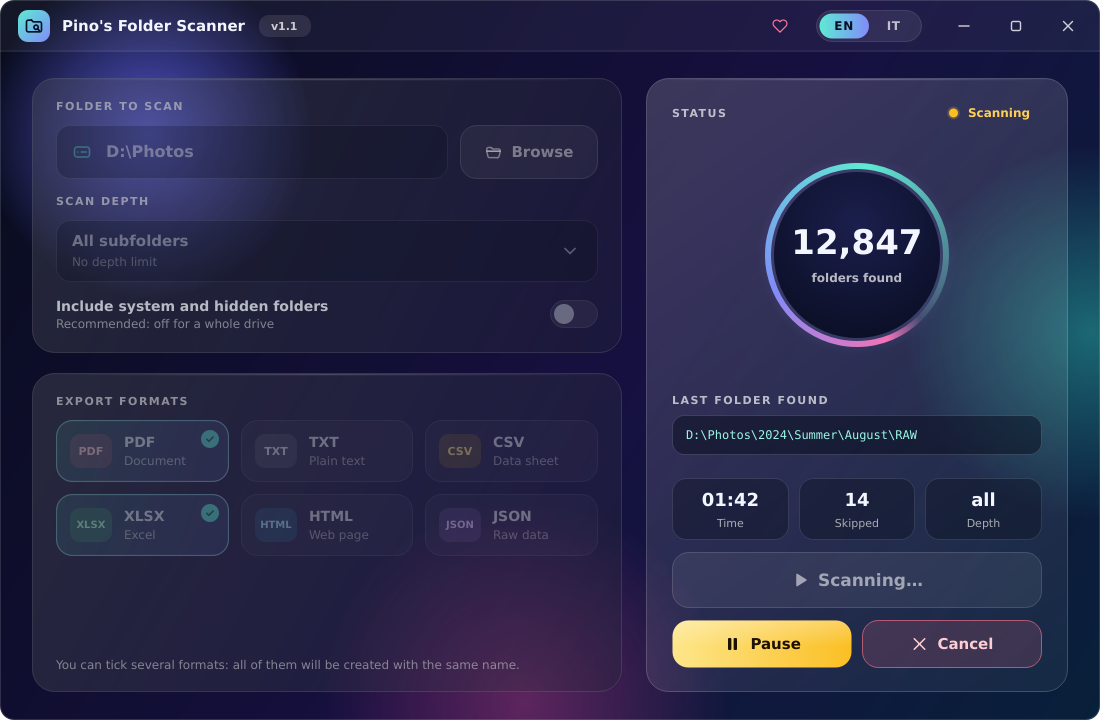
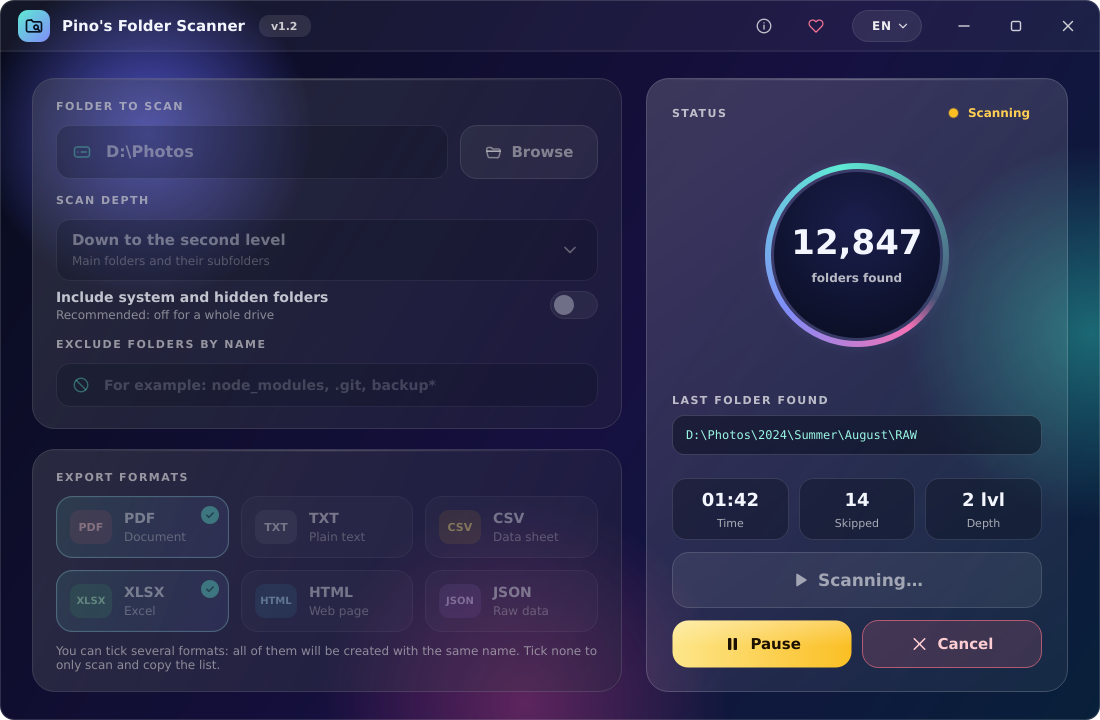
Mark 1.2 as released and update the README and the screenshots (#18)

diff --git a/README.md b/README.md
@@ -11,7 +11,7 @@
 
 A small Windows desktop app that scans a drive or a folder and exports the list of its subfolders to **PDF, TXT, CSV, XLSX, HTML or JSON**.
 
-Pick a folder, choose how deep to look, tick the formats you want, press **Start scan**. That's it.
+Pick a folder, choose how deep to look, tick the formats you want (or none, to only copy the list), press **Start scan**. That's it.
 
 [![Support me on Ko-fi](https://ko-fi.com/img/githubbutton_sm.svg)](https://ko-fi.com/thenormal)
 
@@ -24,13 +24,16 @@ Pick a folder, choose how deep to look, tick the formats you want, press **Start
 - **Any drive or folder**: use *Browse* or paste a path (`D:\`, `D:\Photos`, a network path…).
 - **Descriptive depth**: selected folder only, first level only, down to the second or third level, or all subfolders.
 - **System and hidden folders** are left out by default (`$Recycle.Bin`, `System Volume Information`, `Windows`, `Program Files`… in the root of a drive, plus anything with the hidden/system attribute). One switch includes them.
-- **Six export formats**, tick as many as you like: they are all created with the same file name. You choose where to save every time.
+- **Six export formats**, tick as many as you like: they are all created with the same file name. You choose where to save every time. Tick none to only scan: no "Save as" window and no file.
+- **Exclude folders by name** (for example `node_modules, .git, backup*`): upper and lower case do not matter, `*` and `?` work as wildcards. A folder left out is not opened, so the scan is faster, and nothing inside it is listed.
 - **Pause, Resume and Cancel** while scanning, with a live counter and the last folder found. Cancelling creates no files.
 - **Folders that cannot be read** (no permission, removed while scanning…) are skipped without stopping the scan, and listed in a "not scanned" section of the report.
 - **Symbolic links and junctions are not followed**, so there are no endless loops.
 - Long paths (over 260 characters) and Unicode names (accents, Cyrillic, Japanese…) are handled.
 - **Drag and drop**: drag a folder or a drive onto the window to choose it (a file stands for the folder that contains it).
-- **English and Italian** interface and reports; the language switch is in the title bar, and the language of Windows is used on the first start. More languages are planned.
+- **Copy list**: when a scan is complete, one button copies the full paths, one per line, to the clipboard.
+- **Eight languages**: English, Italian, German, Spanish, French, Dutch, Portuguese and Chinese (Simplified), chosen from a drop-down menu in the title bar. The interface and the exported files follow it, and the language of Windows is used on the first start. The translations other than English and Italian have not been checked by native speakers yet: corrections are welcome (see Contributing).
+- **Diagnostic report** to help with problem reports (see below). Nothing is ever sent by the program.
 - Remembers your last settings.
 - Glass-style interface with animations.
 
@@ -49,10 +52,11 @@ Developed for **Windows 11**; Windows 10 is expected to work too.
 1. Press **Browse** (or type a path, or drag a folder onto the window) and choose a drive or folder.
 2. Choose the **scan depth** from the menu.
 3. Leave *Include system and hidden folders* off (recommended for a whole drive), or turn it on.
-4. Tick one or more **export formats**.
-5. Press **Start scan** and choose where to save. If a file already exists you are asked before it is replaced.
-6. Use **Pause / Resume** and **Cancel** while it runs.
-7. When it finishes, a message tells you how many folders were found and which files were created. Nothing is opened automatically.
+4. Optional: write the names of folders to leave out in **Exclude folders by name**, separated by commas (for example `node_modules, .git`).
+5. Tick one or more **export formats**, or none to only scan.
+6. Press **Start scan** and choose where to save (with no format ticked there is nothing to save). If a file already exists you are asked before it is replaced.
+7. Use **Pause / Resume** and **Cancel** while it runs.
+8. When it finishes, a message tells you how many folders were found and which files were created. Nothing is opened automatically. The **Copy list** button copies the list to the clipboard.
 
 ### What the output looks like
 
@@ -64,7 +68,21 @@ Developed for **Windows 11**; Windows 10 is expected to work too.
 ### Where things are stored
 
 - Settings: Windows registry, `HKEY_CURRENT_USER\Software\thenormal\PinosFolderScanner`.
-- If the program meets an unexpected error it writes the details to `%LOCALAPPDATA%\PinosFolderScanner\errors.log`. Please attach it if you open an issue.
+- If the program meets an unexpected error it writes the details to `%LOCALAPPDATA%\PinosFolderScanner\errors.log`.
+
+### Diagnostic report and privacy
+
+If something does not work, press the **i** button next to the heart and choose **Save diagnostic report**: it saves a text file wherever you choose, and you can read it before you send it to anyone. **Report a problem** opens the GitHub page for a new issue with the program version and Windows already filled in. At the end of a scan the program offers the report by itself, but only when something really went wrong (a file could not be created, the scan failed or folders were skipped because of an unexpected error). "Access denied" and "not found" are normal and do not trigger it.
+
+The report is always in English and contains:
+
+- the program version, Windows, Python and Qt versions, the interface language and the screen scale;
+- the options and results of the last scan: folders found, folders skipped (by reason), scan time, time in pause, folders per second, and the five slowest folders to read;
+- the kind of path scanned (local, network or removable drive), how many folders were left out by name and how many were copied to the clipboard;
+- time and size of each exported file, and the fonts used in the PDF;
+- the last lines of `errors.log`.
+
+**Privacy:** every folder name in the report is replaced by a code (for example `D:\Photos` becomes `<drive>\f_3a9c1e`) that changes in every report and cannot be turned back into the name. The names you type in the exclusion field are never written in it. There is no user name and no computer name, and there is no option to show the real names. The program never sends the report anywhere: you decide whether to share it. The tests check that no real name appears in it.
 
 ## Build from source
 
@@ -88,9 +106,10 @@ python -m venv .venv
 | `app/scanner.py` | Scan engine: depth, filters, links, pause/cancel (no Qt needed) |
 | `app/worker.py` | Runs the scan and the export in a background thread |
 | `app/exporters.py` | One function per format (PDF, TXT, CSV, XLSX, HTML, JSON) |
-| `app/i18n.py` | All the texts of the program (English and Italian; a new language is one more block) |
+| `app/i18n.py` | All the texts of the program in the eight languages (a new language is one more block) |
+| `app/diagnostics.py` | The diagnostic report and the masking of folder names (no Qt needed) |
 | `app/settings.py` | Settings remembered between runs |
-| `app/links.py` | The web link of the Ko-fi button (opened only when you click it) |
+| `app/links.py` | The web links of the program (Ko-fi, GitHub, new issue), opened only when you click them |
 | `app/window.py` | Main window, ties everything together |
 | `app/widgets.py` | The look: colours, glass cards, buttons, animated ring, icons |
 | `app/dialogs.py` | Message boxes in the same style |
@@ -104,25 +123,26 @@ python -m venv .venv
 Some easy changes:
 
 - **Add an export format**: write one function in `app/exporters.py`, register it in `EXPORTERS` and `FORMATS`, and add its label to `app/i18n.py`.
-- **Add a language**: copy the `"en"` block in `app/i18n.py`, translate it and add the code to `LANGUAGES`; the language switch appears in the title bar by itself.
+- **Add a language**: copy the `"en"` block in `app/i18n.py`, translate it, add the code to `LANGUAGES` and its own name to `LANGUAGE_NAMES`, and add it to `UNVERIFIED_LANGUAGES` until a native speaker has checked it; the language menu in the title bar lists it by itself. `tests/test_core.py` checks that every text and every `{placeholder}` is there.
 - **Change the colours**: the constants at the top of `app/widgets.py` and the background in `app/window.py`.
 
 ### Tests
 
 ```bat
 python tests\test_core.py
+python tests\test_diagnostics.py
 python tests\test_gui.py
 ```
 
-The first one tests scanning (depth, filters, links, permissions, pause/cancel) and all the exports; the second drives the window without showing it (start, pause, cancel, language switch, drag and drop…). They need no screen and write nothing outside a temporary folder.
+The first one tests the texts of all the languages, scanning (depth, filters, exclusion by name, links, permissions, pause/cancel) and all the exports; the second one tests the diagnostic report, above all that no real folder name can appear in it; the third drives the window without showing it (start, pause, cancel, language menu, drag and drop, info window, Copy list…). They need no screen and write nothing outside a temporary folder. For one check of the Chinese PDF the first test also uses `pypdf`, a tool used only by the tests (`pip install -r requirements-dev.txt`); without it that check is skipped.
 
 ## Roadmap
 
-See [ROADMAP.md](ROADMAP.md): a diagnostic report to help with problem reports, more languages (Spanish, French, German, Portuguese, Dutch, Chinese), name filters and copying the list to the clipboard are planned. The changes of each version are in [CHANGELOG.md](CHANGELOG.md).
+See [ROADMAP.md](ROADMAP.md) for the ideas that may come next (a light theme, code signing of the `.exe`, more languages on request). The changes of each version are in [CHANGELOG.md](CHANGELOG.md).
 
 ## Contributing
 
-Bug reports and ideas are welcome: please open an [issue](../../issues). For a bug, say what you did, what you expected, and attach `errors.log` if there is one.
+Bug reports, ideas and translation fixes are welcome: please open an [issue](../../issues) and pick the matching form. For a bug, the easiest way is the **Report a problem** button of the program, with the diagnostic report attached. If a text in your language is wrong or sounds unnatural, use the **Fix a translation** form.
 
 ## Support
 

diff --git a/ROADMAP.md b/ROADMAP.md
@@ -14,28 +14,11 @@ First public release: scan a drive or folder and export its subfolder list to PD
 - Drag a folder onto the window to choose it.
 - Automatic build on GitHub Actions: the `.exe` attached to each release is built from the public source.
 
-## 1.2 – Diagnostics, languages, filters and clipboard (ready, not yet released)
+## 1.2 – Released: diagnostics, languages, filters and clipboard
 
-One release with all of this. The work was done in small steps, each one tried on Windows before it was merged. Everything is in and the version number is 1.2; the release is published after a last test of the executable in every language.
-
-### Diagnostics and feedback
-
-- **Diagnostic report** of the last scan, saved as a text file wherever you choose with *Save as*. It contains the version, Windows, Python and Qt versions, the language and the screen scale; the scan options and results (folders found, folders skipped by reason, duration, time in pause, folders per second); the kind of path (local, network or removable); time and size of each export, and the fonts used in the PDF; the five slowest folders to read; the last lines of `errors.log`. *Progress: the report, the info window with its buttons, the offer at the end of a scan and the issue forms (bug, idea) are done. The README note comes after the release.*
-- **Privacy:** every folder name in the report is replaced by a code (for example `D:\Photos` becomes `<drive>\f_3a9c1e`), always, with no option to show the real names. No user name, no computer name. Nothing is ever sent by the program: you decide what to attach to a report. Tests check that no real name appears in the report.
-- **Info window** (an "i" button next to the heart): version, links (GitHub, issues, Ko-fi, README), *Save diagnostic report* and *Report a problem* (opens the GitHub new-issue page already filled with the version and Windows, which you can read before sending).
-- **Offer to save the report** in the window shown at the end of a scan, only when something really went wrong: a format could not be created, the scan failed because of an unexpected error, or folders were skipped because of an unexpected system error. Folders skipped for "access denied" or "not found" are normal and do not trigger it.
-- Issue forms in the repository (bug report, idea) and a README note on what the report contains.
-
-### More languages
-
-- Spanish, French, German, Portuguese, Dutch and Chinese. *Progress: all six are in (Chinese is Simplified Chinese; Portuguese is neutral, close to Brazilian). Numbers use the separator of each language.*
-- The language switch is now a drop-down menu with the name of each language; the language of Windows is used by default.
-- Issue form to report a translation to fix (done). Translations are not checked by native speakers yet: the info window says so, and corrections are welcome.
-
-### Filters and clipboard
-
-- Exclude folders by name (for example `node_modules` or `.git`). *Progress: done. A field in the main window takes names separated by commas or semicolons; upper and lower case do not matter, `*` and `?` work as wildcards, a folder left out is not opened (so nothing inside it is listed) and the starting folder is never left out. The exported files and the final message say what was left out; the diagnostic report only counts them.*
-- Copy the list to the clipboard without saving a file. *Progress: done. With no format ticked the program only scans (no "Save as", no file); when a scan is complete a **Copy list** button, in the place of Pause and Cancel, copies the full paths, one per line, in alphabetical order. It also works after a scan that created files.*
+- **Diagnostics and feedback:** an **i** button next to the heart opens an info window (version, links, *Save diagnostic report*, *Report a problem*). The diagnostic report is a text file you save and share only if you want to; every folder name in it is replaced by a code, and there is no user name or computer name. At the end of a scan the report is offered only when something really went wrong. Issue forms for bug reports, ideas and translation fixes.
+- **Eight languages:** Spanish, French, German, Dutch, Portuguese (neutral, close to Brazilian) and Chinese (Simplified) next to English and Italian, with a drop-down menu in the title bar. The new translations are not checked by native speakers yet: corrections are welcome. Numbers use the separator of each language.
+- **Filters and clipboard:** exclude folders by name (with `*` and `?` wildcards); a **Copy list** button when a scan is complete; with no format ticked the program only scans, with no file.
 
 ## Ideas, no version yet
 

diff --git a/CHANGELOG.md b/CHANGELOG.md
@@ -2,7 +2,7 @@
 
 All notable changes to Pino's Folder Scanner. See also the [roadmap](ROADMAP.md).
 
-## 1.2 – ready, not yet released
+## 1.2 – 2026-11-27
 
 ### Added
 - **Info window** (the **i** button next to the heart): version, links (GitHub, Issues, Ko-fi, README), **Save diagnostic report** and **Report a problem**.
